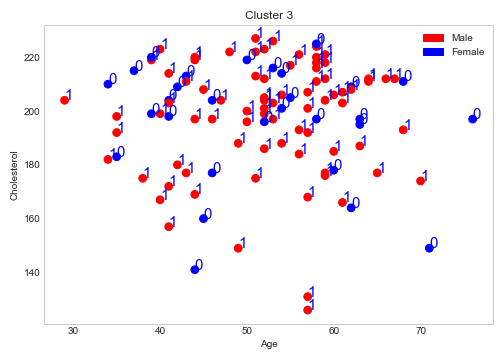
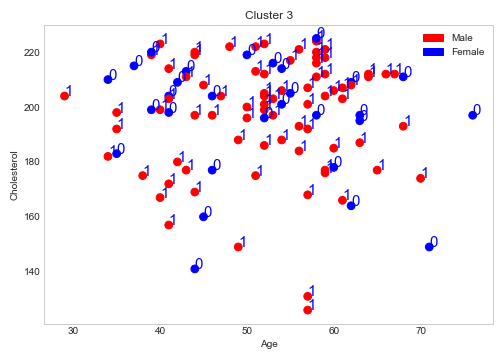
Changed Distance to Manhattan and Linkage to Complete

diff --git a/ML - TCC - Clusters/tcc_ml_analysis/single_cluster_analysis.py b/ML - TCC - Clusters/tcc_ml_analysis/single_cluster_analysis.py
@@ -11,12 +11,12 @@ from sklearn import mixture
 
 #import dataset
 dataset = pd.read_csv('cleveland.csv')
-X = dataset.iloc[:, [0, 3, 1]].values
+X = dataset.iloc[:, [0, 4, 1]].values
 
 # Fit model
 from sklearn.cluster import AgglomerativeClustering
 hc = AgglomerativeClustering(
-    n_clusters = 3, affinity = 'euclidean', linkage='ward')
+    n_clusters = 3, affinity = 'manhattan', linkage='complete')
 y_hc = hc.fit_predict(X)
 
 # Plot
@@ -38,10 +38,10 @@ with plot.style.context('seaborn-whitegrid'):
     ax, fig = plotConfig(7, 5)
        
     # Data Information
-    ax.scatter(X[:, 0], X[:, 1], s = 60, cmap = plot.cm.bwr)        
+    ax.scatter(X[:, 1], X[:, 0], s = 60, cmap = plot.cm.bwr)        
     ax.grid(False)
     # Annotations
-    for x, y, name, gen in zip(X[:, 0], X[:, 1], X[:, 2], X[:, 2]):
+    for x, y, name, gen in zip(X[:, 1], X[:, 0], X[:, 2], X[:, 2]):
         ax.text(x, y, name, color=plot.cm.bwr(gen),
                  fontdict={'family': 'Arial', 'size': 15}) 
 # End Annotations

diff --git a/ML - TCC - Clusters/tcc_ml_analysis/cluster_analysis.py b/ML - TCC - Clusters/tcc_ml_analysis/cluster_analysis.py
@@ -24,7 +24,7 @@ run_dendogram(X, 'ward', False)
 
 # Fit model
 # Expects: Number of Clusters, Affinity, Linkage, Data Array
-predict = fit_model(3, 'euclidean', 'ward', X)
+predict = fit_model(3, 'manhattan', 'complete', X)
 
 # Get Data - Returns x,y axis and label
 # Expects: Data Array, Predict Result, Cluster Index
@@ -34,7 +34,6 @@ data_matrix = []
 while c_idx <= max(predict):
     data_matrix.append(get_data(X, predict, c_idx))
     c_idx += 1
-
 
 # Data Visualization
 # Expects: DataMatrix 0 - 1 - DisplaySize - 2 (Color Attribute)
